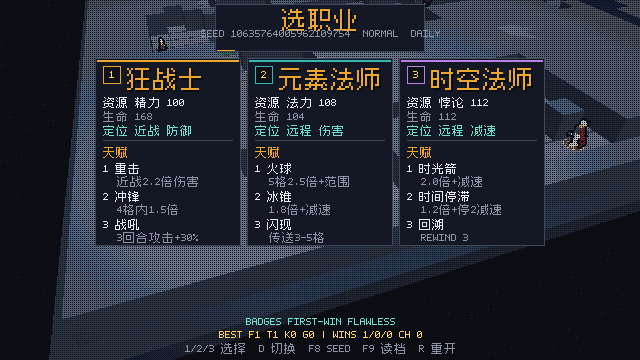
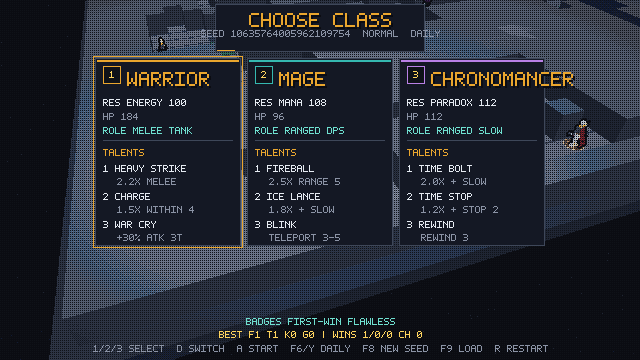
balance: lower mage constitution

diff --git a/README.md b/README.md
@@ -229,7 +229,7 @@ docs/           RUN_V1 / SAVE / ART_PASS / UX_REVIEW_RUN / screenshots
 - 一条命令发版自检：tools/preflight.ps1（fmt/三层测试/打包/Steam/Demo/Deck 静态/i18n/截图）；Python 可设 VX_PYTHON。
 - headless：可生成职业菜单/开始/战斗/角色/背包/胜利截图；`--start-menu` 输出 `docs/screenshots/run_select.png`。
 - 职业菜单显示的 SEED 就是本局真实 seed；选择职业只按同一 seed 重开；R 保留职业，未锁定时换新 seed。
-- 大图 QA（100 seed × 3 职业，纯逻辑 bot）：普通 68.7%（206/300）：狂战士 63%、元素法师 78%、时空法师 65%；困难 43.0%（129/300）；简单 91.3%（274/300），0 超时/不变量违规；test-qa 145/145、test-qa3 233/233。
+- 大图 QA（100 seed × 3 职业，纯逻辑 bot）：普通 68.0%（204/300）：狂战士 63%、元素法师 76%、时空法师 65%；困难 40.7%（122/300）；简单 91.3%（274/300），0 超时/不变量违规；test-qa 145/145、test-qa3 233/233。
 - auto 是演示/巡检 bot，不保证通关；31×31 + 楼层 Boss 下可能停在 Boss 层，实际 QA 以 test-qa 为准。
 - Boss 深渊斩每 3 个敌方回合预警一次，半径 0.9 格；走出标记格即可躲开；Boss 存活时第 3 层楼梯封印。
 - 速度机制已改为 energy 银行：精英幽魂 150 积累双动，石魔像 70 隔回合少动。

diff --git a/docs/QA_RUN2.md b/docs/QA_RUN2.md
@@ -173,15 +173,15 @@ zig build test-qa --summary all
 
 | 指标 | 全部 | 狂战士 | 元素法师 | 时空法师 |
 | --- | ---: | ---: | ---: | ---: |
-| 普通通关率 | **68.7%** (206/300) | 63% | 78% | 65% |
-| 困难通关率 | **43.0%** (129/300) | 34% | 61% | 34% |
+| 普通通关率 | **68.0%** (204/300) | 63% | 76% | 65% |
+| 困难通关率 | **40.7%** (122/300) | 34% | 54% | 34% |
 | 简单通关率 | **91.3%** (274/300) | 93% | 94% | 87% |
-| 死亡 | 94 | 37 | 22 | 35 |
-| 平均回合 | 179.9 | 194.2 | 167.2 | 178.5 |
+| 死亡 | 96 | 37 | 24 | 35 |
+| 平均回合 | 179.9 | 194.2 | 167.1 | 178.5 |
 | 平均到达层 | 2.99 | 3.00 | 3.00 | 3.00 |
 | 超时 | 0 | 0 | 0 | 0 |
 
 - zig build test：249/249；zig build test-qa：145/145；test-qa3：233/233。
-- 2026-10-25 战士 buff + AETHER LENS 后复测；0 不变量违规。
+- 2026-10-25 战士 buff、AETHER LENS、法师 CON 8->7 后复测；0 不变量违规。
 - 第 9 节的 64.3% 保留为 13×13 历史基线。
 - auto 仍是巡检 bot，在 31×31 Boss 层可能停住；以 test-qa 批量结果为准。

diff --git a/docs/RELEASE_READINESS.md b/docs/RELEASE_READINESS.md
@@ -6,7 +6,7 @@
 
 | 领域 | 状态 | 证据 | 阻塞 |
 | --- | --- | --- | --- |
-| 核心循环 | 绿 | 3 职业/3 层/回合/永久死亡；QA normal 68.7% / hard 43.0% / easy 91.3% | 无 |
+| 核心循环 | 绿 | 3 职业/3 层/回合/永久死亡；QA normal 68.0% / hard 40.7% / easy 91.3% | 无 |
 | 存档 | 绿 | v3、三代 .bak、1 MiB、fuzz | 云冲突未实测 |
 | 3×3 地图 | 黄 | 已实现/存档/minimap；默认 OFF | 自然试玩数据 |
 | Demo 代码 | 绿 | 单层/单职业/独立存档/结束页 | 独立 App/Depot |
